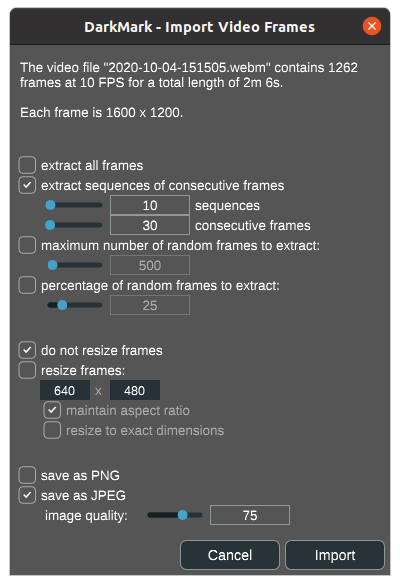
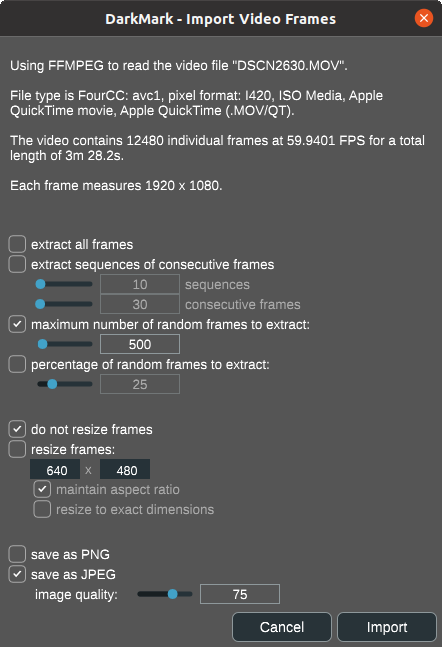
video import tool displays more information on the videos, and is more precise in calculating the length

Changed region(s): [[0.0, 0.0, 1.0, 1.0]]

diff --git a/src-launcher/VideoImportWindow.cpp b/src-launcher/VideoImportWindow.cpp
@@ -2,6 +2,7 @@
 
 #include "DarkMark.hpp"
 #include <random>
+#include <magic.h>
 
 
 dm::VideoImportWindow::VideoImportWindow(const std::string & dir, const VStr & v) :
@@ -134,23 +135,47 @@ dm::VideoImportWindow::VideoImportWindow(const std::string & dir, const VStr & v
 			throw std::runtime_error("failed to open video file " + filename);
 		}
 
-		const auto number_of_frames	= cap.get(cv::VideoCaptureProperties::CAP_PROP_FRAME_COUNT	);
-		const auto fps				= cap.get(cv::VideoCaptureProperties::CAP_PROP_FPS			);
-		const auto frame_width		= cap.get(cv::VideoCaptureProperties::CAP_PROP_FRAME_WIDTH	);
-		const auto frame_height		= cap.get(cv::VideoCaptureProperties::CAP_PROP_FRAME_HEIGHT	);
+		const auto number_of_frames		= cap.get(cv::VideoCaptureProperties::CAP_PROP_FRAME_COUNT			);
+		const auto fps					= cap.get(cv::VideoCaptureProperties::CAP_PROP_FPS					);
+		const auto frame_width			= cap.get(cv::VideoCaptureProperties::CAP_PROP_FRAME_WIDTH			);
+		const auto frame_height			= cap.get(cv::VideoCaptureProperties::CAP_PROP_FRAME_HEIGHT			);
 
-		const size_t len_minutes = static_cast<size_t>(static_cast<size_t>(number_of_frames / fps) / 60);
-		const size_t len_seconds = static_cast<size_t>(static_cast<size_t>(number_of_frames / fps) % 60);
+		const auto fpm					= fps * 60.0;
+		const auto len_minutes			= std::floor(number_of_frames / fpm);
+		const auto len_seconds			= (number_of_frames - (len_minutes * fpm)) / fps;
+
+		// Almost all videos will be "avc1" and "I420", but every once in a while we might see something else.
+		const uint32_t fourcc			= cap.get(cv::VideoCaptureProperties::CAP_PROP_FOURCC				);
+		const uint32_t format			= cap.get(cv::VideoCaptureProperties::CAP_PROP_CODEC_PIXEL_FORMAT	);
+		const std::string fourcc_str	= (fourcc == 0 ? std::to_string(fourcc) : std::string(reinterpret_cast<const char *>(&fourcc), 4));
+		const std::string format_str	= (format == 0 ? std::to_string(format) : std::string(reinterpret_cast<const char *>(&format), 4));
+
+		std::string description;
+		magic_t magic_cookie = magic_open(MAGIC_NONE);
+		if (magic_cookie != 0)
+		{
+			const auto rc = magic_load(magic_cookie, nullptr);
+			if (rc == 0)
+			{
+				description = magic_file(magic_cookie, filename.c_str());
+			}
+			magic_close(magic_cookie);
+		}
 
 		if (v.size() > 1)
 		{
 			ss << "There are " << v.size() << " videos to import." << std::endl << std::endl;
 		}
 
-		ss	<< "The video file \"" << shortname << "\" contains " << number_of_frames << " frames at " << fps << " FPS "
-			<< "for a total length of " << len_minutes << "m " << len_seconds << "s. " << std::endl
+		ss	<< "Using " << cap.getBackendName() << " to read the video file \"" << shortname << "\"." << std::endl
 			<< std::endl
-			<< "Each frame is " << static_cast<int>(frame_width) << " x " << static_cast<int>(frame_height) << ".";
+			<< "File type is FourCC: " << fourcc_str << ", pixel format: " << format_str
+			<< (description.empty() ? "" : ", " + description) << "." << std::endl
+			<< std::endl
+			<< "The video contains " << number_of_frames << " individual frames at " << fps << " FPS "
+			<< "for a total length of " << len_minutes << "m " << std::fixed << std::setprecision(1) << len_seconds << "s. " << std::endl
+			<< std::endl
+			<< "Each frame measures " << static_cast<int>(frame_width) << " x " << static_cast<int>(frame_height) << ".";
 	}
 	catch (...)
 	{
@@ -171,7 +196,7 @@ dm::VideoImportWindow::VideoImportWindow(const std::string & dir, const VStr & v
 	}
 	else
 	{
-		centreWithSize(380, 530);
+		centreWithSize(380, 600);
 	}
 
 	setVisible(true);
@@ -225,7 +250,7 @@ void dm::VideoImportWindow::resized()
 	fb_rows.alignItems		= FlexBox::AlignItems::stretch;
 	fb_rows.justifyContent	= FlexBox::JustifyContent::flexStart;
 
-	fb_rows.items.add(FlexItem(header_message			).withHeight(height * 4));
+	fb_rows.items.add(FlexItem(header_message			).withHeight(height * 8).withFlex(1.0));
 	fb_rows.items.add(FlexItem(tb_extract_all			).withHeight(height).withMargin(new_row_indent));
 	fb_rows.items.add(FlexItem(tb_extract_sequences		).withHeight(height));
 

diff --git a/src-launcher/StartupCanvas.cpp b/src-launcher/StartupCanvas.cpp
@@ -115,7 +115,7 @@ dm::StartupCanvas::StartupCanvas(const std::string & key, const std::string & di
 
 	properties.add(new TextPropertyComponent(project_directory				, "project directory"		, 1000, false, false));
 	properties.add(new TextPropertyComponent(size_of_directory				, "size of directory"		, 1000, false, false));
-	properties.add(new TextPropertyComponent(last_used						, "last used"				, 1000, false, false));
+	properties.add(new TextPropertyComponent(last_used						, "last opened"				, 1000, false, false));
 	properties.add(new TextPropertyComponent(number_of_images				, "image files"				, 1000, false, false));
 	properties.add(new TextPropertyComponent(number_of_json					, "markup files"			, 1000, false, false));
 	properties.add(new TextPropertyComponent(number_of_classes				, "number of classes"		, 1000, false, false));
